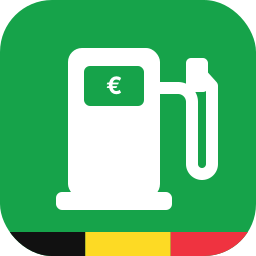
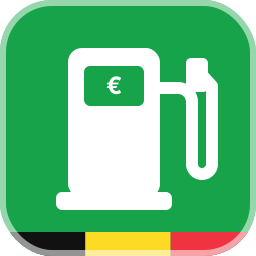
v1.2.1
Adding new logo + address of the fuel station

Changed region(s): [[0.0, 0.0, 1.0, 1.0]]

diff --git a/custom_components/carbu_be/sensor.py b/custom_components/carbu_be/sensor.py
@@ -33,6 +33,7 @@ async def async_setup_entry(
     for fuel in coordinator.fuels:
         entities.append(CarbuCheapestSensor(coordinator, fuel))
         entities.append(CarbuAverageSensor(coordinator, fuel))
+        entities.append(CarbuStationSensor(coordinator, fuel))
     async_add_entities(entities)
 
 
@@ -106,6 +107,53 @@ class CarbuCheapestSensor(_CarbuBase):
         if best.latitude is not None and best.longitude is not None:
             attrs["latitude"] = best.latitude
             attrs["longitude"] = best.longitude
+        return {k: v for k, v in attrs.items() if v is not None}
+
+
+class CarbuStationSensor(_CarbuBase):
+    """Name and address of the cheapest station (text sensor, shown on maps)."""
+
+    _attr_native_unit_of_measurement = None
+    _attr_state_class = None
+    _attr_suggested_display_precision = None
+    _attr_icon = "mdi:map-marker"
+
+    def __init__(self, coordinator: CarbuCoordinator, fuel: str) -> None:
+        super().__init__(coordinator, fuel, "station")
+        self._attr_name = f"{FUELS[fuel][1]} station"
+
+    @property
+    def native_value(self) -> str | None:
+        if not self._stations:
+            return None
+        best = self._stations[0]
+        value = best.name
+        if best.full_address:
+            value = f"{value} – {best.full_address}"
+        if best.distance is not None:
+            value = f"{value} ({best.distance:g} km)"
+        return value[:255]
+
+    @property
+    def entity_picture(self) -> str | None:
+        return self._stations[0].logo if self._stations else None
+
+    @property
+    def extra_state_attributes(self) -> dict[str, Any]:
+        if not self._stations:
+            return {}
+        best = self._stations[0]
+        attrs = {
+            "price": best.price,
+            "station": best.name,
+            "brand": best.brand,
+            "full_address": best.full_address,
+            "distance_km": best.distance,
+            "latitude": best.latitude,
+            "longitude": best.longitude,
+            "maps_url": best.maps_url,
+            "url": best.url,
+        }
         return {k: v for k, v in attrs.items() if v is not None}
 
 

diff --git a/tests/test_integration.py b/tests/test_integration.py
@@ -35,6 +35,10 @@ async def test_full_flow(hass, aioclient_mock):
 
     states = {s.entity_id: s for s in hass.states.async_all("sensor")}
     print(list(states))
+    assert len(states) == 3
+    station = next(s for k, s in states.items() if k.endswith("_station"))
+    assert station.state == "Shell Saintes – Chaussée 1, 1480 Saintes (3.2 km)", station.state
+    assert station.attributes["latitude"] == 50.70 and station.attributes["price"] == 1.789
     cheap = next(s for k, s in states.items() if k.endswith("moins_cher"))
     avg = next(s for k, s in states.items() if k.endswith("moyenne"))
     assert cheap.state == "1.789" and cheap.attributes["station"] == "Shell Saintes"
@@ -49,3 +53,18 @@ async def test_bad_postal(hass, aioclient_mock):
     r = await hass.config_entries.flow.async_init(DOMAIN, context={"source": config_entries.SOURCE_USER})
     r = await hass.config_entries.flow.async_configure(r["flow_id"], {"postal_code": "abc"})
     assert r["errors"] == {"postal_code": "invalid_postal_code"}
+
+
+async def test_two_towns(hass, aioclient_mock):
+    loc2 = json.dumps([{"id":"BE_bw_50","n":"Nivelles","pn":"Brabant Wallon","c":"BE","pc":"1400"}])
+    aioclient_mock.get(re.compile(r".*location=1480.*"), text=LOC)
+    aioclient_mock.get(re.compile(r".*location=1400.*"), text=loc2)
+    aioclient_mock.get(re.compile(r".*liste-stations-service.*"), text=HTML)
+    for pc, tid in (("1480", "BE_bw_193"), ("1400", "BE_bw_50")):
+        r = await hass.config_entries.flow.async_init(DOMAIN, context={"source": config_entries.SOURCE_USER})
+        r = await hass.config_entries.flow.async_configure(r["flow_id"], {"postal_code": pc})
+        r = await hass.config_entries.flow.async_configure(r["flow_id"], {"town_id": tid, "fuels": ["super95"]})
+        assert r["type"] == FlowResultType.CREATE_ENTRY
+        await hass.async_block_till_done()
+    ids = [s.entity_id for s in hass.states.async_all("sensor")]
+    assert len(ids) == 6 and any("nivelles" in i for i in ids) and any("tubize" in i for i in ids), ids

diff --git a/README.md b/README.md
@@ -9,6 +9,7 @@ Intégration HACS qui récupère sur [carbu.com](https://carbu.com/belgique/) le
 | Capteur | État | Attributs utiles |
 |---|---|---|
 | `sensor.carbu_<commune>_<carburant>_moins_cher` | prix le plus bas (€/L) | station, marque, adresse, url, date de mise à jour, `stations` (top 10) |
+| `sensor.carbu_<commune>_<carburant>_station` | « Station – adresse (distance) » de la moins chère | latitude, longitude, maps_url, prix |
 | `sensor.carbu_<commune>_<carburant>_moyenne` | prix moyen (€/L) | min, max, nombre de stations, économie sur 50 L |
 
 Carburants : Super 95 (E10), Super 98 (E5), Diesel (B7), LPG.
@@ -57,6 +58,10 @@ content: >
   ({{ state_attr(s,'distance_km') }} km)<br>
   [{{ state_attr(s,'full_address') }}]({{ state_attr(s,'maps_url') }})
 ```
+
+## Plusieurs communes
+
+Paramètres → Appareils et services → Carbu BE → **Ajouter une entrée**, puis un autre code postal. Chaque commune devient un appareil séparé avec ses propres capteurs.
 
 ## Exemple d'automatisation
 
